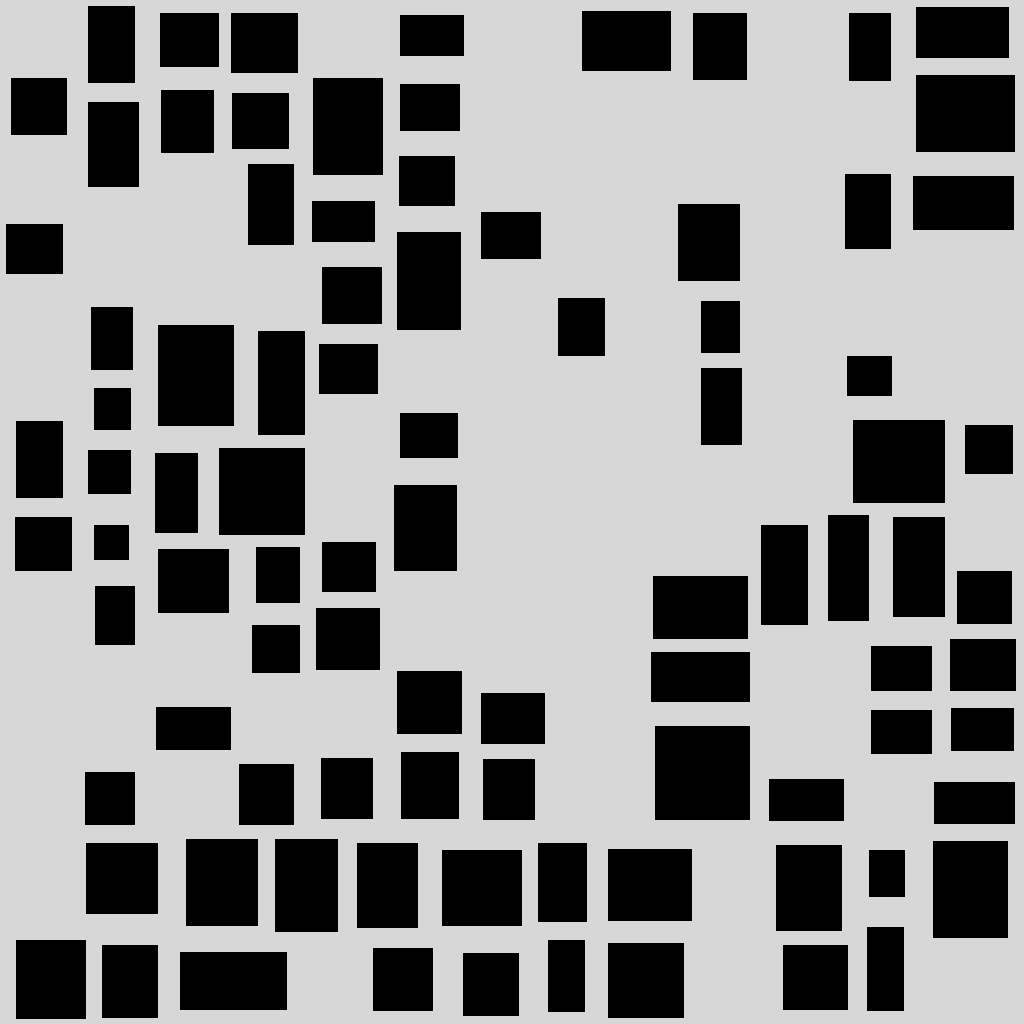
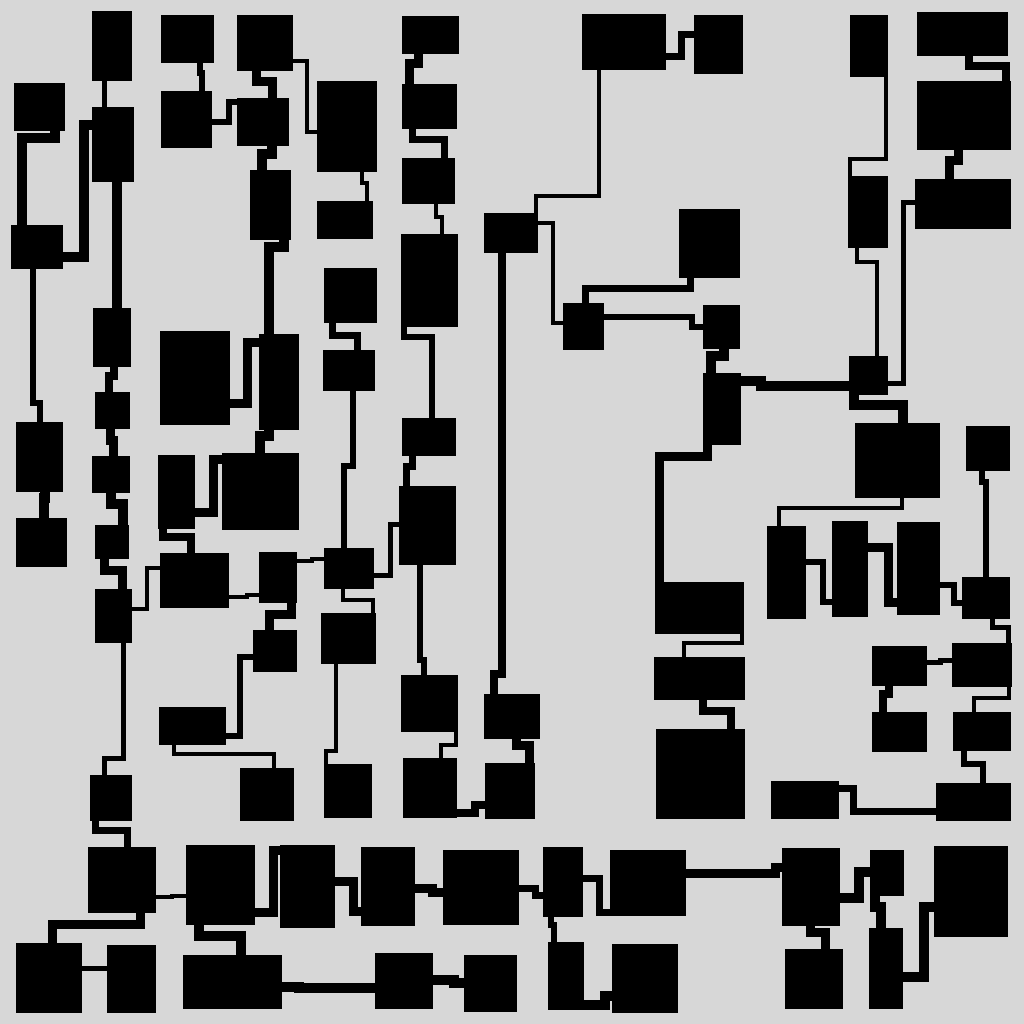
add corridors to array

diff --git a/Packages/com.pg649.worldgeneration/Runtime/Space Partitioning/Scripts/Dungeon.cs b/Packages/com.pg649.worldgeneration/Runtime/Space Partitioning/Scripts/Dungeon.cs
@@ -6,7 +6,7 @@ using UnityEngine;
 public class DungeonTreeMeta : MonoBehaviour{
     public int[] partitionSize;
     public int[] point;
-    public Vector3 roomPoint;
+    public Vector3Int roomPoint;
     public int northRooms,eastRooms,southRooms,westRooms;
     public DungeonTreeMeta(){
 
@@ -24,7 +24,7 @@ public class DungeonTreeMeta : MonoBehaviour{
         this.partitionSize = size;
         this.point = point;
     }
-    public Vector3 RoomPoint{
+    public Vector3Int RoomPoint{
         get{return roomPoint;}
         set{roomPoint = value;}
     }
@@ -135,7 +135,7 @@ public class DungeonRoom : IGameObjectable{
         }
     }
 
-    public Vector3 RoomPoint{
+    public Vector3Int RoomPoint{
         get{return roomPoint;}
     }
     public Vector3 UpperLeftPoint{
@@ -180,22 +180,25 @@ public class DungeonRoomMeta : MonoBehaviour{
 
 
 public class DungeonCorridor : IGameObjectable {
-    private List<Vector3> path;
+    private List<Vector3Int> path;
     private int width;
     private float height;
     public DungeonRoom startRoom, endRoom;
     public DungeonRoom.Face startFace, endFace;
     private int startIndex, endIndex;
+    public Vector3Int partitionPoint;
 
     public DungeonCorridor(){
-        path = new List<Vector3>();
+        path = new List<Vector3Int>();
     }
 
     public GameObject ToGameObject(){
         GameObject go = new GameObject("DungeonCorridor");
         DungeonCorridorMeta dcm = go.AddComponent<DungeonCorridorMeta>();
         dcm.SetValues(this);
-        MeshGeneration.CorridorGround(path,width).transform.parent = go.transform;
+        List<Vector3> l = new List<Vector3>();
+        foreach(Vector3Int v in path) l.Add(new Vector3(v.x,v.y,v.z));
+        MeshGeneration.CorridorGround(l,width).transform.parent = go.transform;
         return go;
     }
 
@@ -208,10 +211,32 @@ public class DungeonCorridor : IGameObjectable {
     }
 
     public void ApplyToBoolArray(bool[,] m){
-        
+        Vector3Int p = path[0];
+        int i = 0;
+        while(i != path.Count-1){
+            Vector3Int dir = (path[i+1]-path[i]);
+            if(dir.magnitude > 0) dir = dir/(int)dir.magnitude;
+            for(int j = 0; j < width; j++){
+                if(dir == Vector3.left || dir == Vector3.right){
+                    m[partitionPoint.x + p.x, partitionPoint.z +p.z + j] = true;
+                }
+                else{
+                    m[partitionPoint.x + p.x + j, partitionPoint.z +p.z] = true;
+                }
+            }
+            p += dir;
+            if(p == path[i+1]){
+                Vector3Int nextDir = i < path.Count-2 ? (path[i+2]-path[i+1]) : Vector3Int.zero;
+                if(nextDir.magnitude > 0) nextDir = nextDir/(int)nextDir.magnitude;
+                if((dir == Vector3Int.right &&  nextDir == Vector3Int.back) || (dir == Vector3Int.forward && nextDir == Vector3.left)){
+                    p += (-nextDir)*(width-1);
+                }
+                i += 1;
+            }
+        }
     }
 
-    public List<Vector3> Path{
+    public List<Vector3Int> Path{
         get{return path;}
         set{path = value;}
     }
@@ -247,13 +272,17 @@ public class DungeonCorridor : IGameObjectable {
         get{return endIndex;}
         set{endIndex = value;}
     }
+    public Vector3Int PartitionPoint{
+        get{return partitionPoint;}
+        set{partitionPoint = value;}
+    }
 }
 class DungeonCorridorMeta : MonoBehaviour{
-    public List<Vector3> path;
+    public List<Vector3Int> path;
     public float length;
     public DungeonCorridorMeta(){
     }
-    public void SetValues(List<Vector3> path){
+    public void SetValues(List<Vector3Int> path){
         this.path = path;
     }
     public void SetValues(DungeonCorridor c){
@@ -307,8 +336,8 @@ public class DungeonTreeNode : SPTreeNode{
         return x => MathF.Min(MathF.Max(min, x.Size[0]+x.Size[1]*scale), max);
     }   
 
-    public Vector3 PointV{
-        get{return point.Length == 2 ? new Vector3(point[0], 0 , point[1]) : new Vector3(point[0], point[2], point[1]);}
+    public Vector3Int PointV{
+        get{return point.Length == 2 ? new Vector3Int(point[0], 0 , point[1]) : new Vector3Int(point[0], point[2], point[1]);}
     }
     public Tuple<int,int>[] MinMaxMargin{
     get{ return minMaxMargin;}
@@ -490,7 +519,7 @@ public class DungeonTreeT : Tree<DungeonTreeNode> {
         int width = node.Rand.Next(minWidth, maxWidth+1);
         float height = (float)node.Rand.NextDouble()*(maxHeight-minHeight)+minHeight;
         if((node.Size[0] == children[0].Node.Size[0] && children[0].Node.RoomsNorth.Count > 0 && children[1].Node.RoomsSouth.Count > 0) || node.Size[1] == children[0].Node.Size[1] && children[0].Node.RoomsEast.Count > 0 && children[1].Node.RoomsWest.Count > 0){
-            Vector3 start,mid,mid2,end;
+            Vector3Int start,mid,mid2,end;
             DungeonRoom startRoom, endRoom;
             DungeonRoom.Face startFace, endFace;
             DungeonCorridor corridor = new DungeonCorridor();
@@ -500,20 +529,18 @@ public class DungeonTreeT : Tree<DungeonTreeNode> {
                 int cri2 = FindConnectingRoom(startRoom.UpperLeftPoint, children[1].Node.RoomsSouth, DungeonRoom.Face.Front, maxDistance);
                 endRoom = children[1].Node.RoomsSouth[cri2];
                 int startPointIndex = node.Rand.Next(0,startRoom.Width - width+1);
-                float startPoint = startPointIndex + ((float)width/2);
                 int endPointIndex = node.Rand.Next(0,endRoom.Width - width+1);
-                float endPoint = endPointIndex + ((float)width/2);
                 corridor.StartIndex = startPointIndex;
                 corridor.EndIndex = endPointIndex;
-                start = startRoom.RoomPoint - node.PointV + new Vector3(startPoint,0,startRoom.Depth);
-                mid = new Vector3(start.x,start.y, children[0].Node.Size[1]);
-                end = endRoom.RoomPoint - node.PointV + new Vector3(endPoint,0,0);
-                mid2 = new Vector3(end.x,end.y, children[0].Node.Size[1]);
+                start = startRoom.RoomPoint - node.PointV + new Vector3Int(startPointIndex,0,startRoom.Depth);
+                mid = new Vector3Int(start.x,start.y, children[0].Node.Size[1]);
+                end = endRoom.RoomPoint - node.PointV + new Vector3Int(endPointIndex,0,0);
+                mid2 = new Vector3Int(end.x,end.y, children[0].Node.Size[1]);
                 startFace = DungeonRoom.Face.Back;
                 endFace = DungeonRoom.Face.Front;
                 startRoom.AddCorridorPoint(new Tuple<DungeonRoom.Face, int, int>(startFace, startPointIndex, width));
                 endRoom.AddCorridorPoint(new Tuple<DungeonRoom.Face, int, int>(endFace, endPointIndex,width));
-            }   
+            }
             else{
                 int cri1 = node.Rand.Next(0,children[0].Node.RoomsEast.Count);
                 startRoom = children[0].Node.RoomsEast[cri1];
@@ -521,29 +548,30 @@ public class DungeonTreeT : Tree<DungeonTreeNode> {
                 int cri2 = FindConnectingRoom(startRoom.LowerRightPoint, children[1].Node.RoomsWest, DungeonRoom.Face.Left, maxDistance);
                 endRoom = children[1].Node.RoomsWest[cri2];
                 int startPointIndex = node.Rand.Next(0,startRoom.Depth - width+1);
-                float startPoint = startPointIndex + ((float)width/2);
+                float startPoint = startPointIndex;// + ((float)width/2);
                 //float startPoint = (float)node.Rand.NextDouble() * ((startRoom.Depth - width) - width) + width;
                 //float endPoint = (float)node.Rand.NextDouble() * ((endRoom.Depth - width) - width) + width; 
                 int endPointIndex = node.Rand.Next(0,endRoom.Depth - width+1);
-                float endPoint = endPointIndex + ((float)width/2);
+                float endPoint = endPointIndex;// + ((float)width/2);
                 corridor.StartIndex = startPointIndex;
                 corridor.EndIndex = endPointIndex;
-                start = startRoom.RoomPoint - node.PointV + new Vector3(startRoom.Width,0,startPoint);
-                mid = new Vector3(children[0].Node.Size[0],start.y, start.z);
-                end = endRoom.RoomPoint - node.PointV + new Vector3(0,0,endPoint);
-                mid2 = new Vector3(children[0].Node.Size[0],end.y, end.z);
+                start = startRoom.RoomPoint - node.PointV + new Vector3Int(startRoom.Width,0,startPointIndex);
+                mid = new Vector3Int(children[0].Node.Size[0],start.y, start.z);
+                end = endRoom.RoomPoint - node.PointV + new Vector3Int(0,0,endPointIndex);
+                mid2 = new Vector3Int(children[0].Node.Size[0],end.y, end.z);
                 startFace = DungeonRoom.Face.Right;
                 endFace = DungeonRoom.Face.Left;
                 startRoom.AddCorridorPoint(new Tuple<DungeonRoom.Face, int, int>(startFace, startPointIndex,width));
                 endRoom.AddCorridorPoint(new Tuple<DungeonRoom.Face, int, int>(endFace, endPointIndex,width));
             }
+            corridor.PartitionPoint = node.PointV;
             corridor.StartRoom = startRoom;
             corridor.StartRoom = endRoom;
             corridor.StartFace = startFace;
             corridor.EndFace = endFace;
             corridor.Width = width;
             corridor.Height = height;
-            corridor.Path = new List<Vector3>(){start,mid,mid2,end};
+            corridor.Path = new List<Vector3Int>(){start,mid,mid2,end};
             node.Corridors.Add(corridor);
         }
     }
@@ -557,12 +585,12 @@ public class DungeonTreeT : Tree<DungeonTreeNode> {
             corridor.EndRoom = children[1].Node.RoomsWest[node.Rand.Next(0,children[1].Node.RoomsWest.Count)];
             corridor.StartIndex = node.Rand.Next(0,corridor.StartRoom.Depth-width+1);
             corridor.EndIndex = node.Rand.Next(0,corridor.EndRoom.Depth-width+1);
-            Vector3 start = corridor.StartRoom.RoomPoint - node.PointV + new Vector3(corridor.StartRoom.Width,0,corridor.StartIndex+((float)width/2));
+            Vector3Int start = corridor.StartRoom.RoomPoint - node.PointV + new Vector3Int(corridor.StartRoom.Width,0,corridor.StartIndex);
             corridor.Path.Add(start);
-            Vector3 end = corridor.EndRoom.RoomPoint - node.PointV + new Vector3(0,0,corridor.EndIndex+((float)width/2));
+            Vector3Int end = corridor.EndRoom.RoomPoint - node.PointV + new Vector3Int(0,0,corridor.EndIndex);
             if(start.z != end.z){
-                Vector3 mid = new Vector3(children[0].Node.Size[0],start.y, start.z);
-                Vector3 mid2 = new Vector3(children[0].Node.Size[0], end.y, end.z);
+                Vector3Int mid = new Vector3Int(children[0].Node.Size[0],start.y, start.z);
+                Vector3Int mid2 = new Vector3Int(children[0].Node.Size[0], end.y, end.z);
                 corridor.Path.Add(mid);
                 corridor.Path.Add(mid2);
             }
@@ -571,6 +599,7 @@ public class DungeonTreeT : Tree<DungeonTreeNode> {
             corridor.Height = height;
             corridor.StartFace = DungeonRoom.Face.Right;
             corridor.EndFace = DungeonRoom.Face.Left;
+            corridor.PartitionPoint = node.PointV;
             node.Corridors.Add(corridor);
         }
         if(children[1].Node.RoomsNorth.Count > 0 && children[3].Node.RoomsSouth.Count > 0){
@@ -581,12 +610,12 @@ public class DungeonTreeT : Tree<DungeonTreeNode> {
             corridor.EndRoom = children[3].Node.RoomsSouth[node.Rand.Next(0,children[3].Node.RoomsSouth.Count)];
             corridor.StartIndex = node.Rand.Next(0,corridor.StartRoom.Width-width+1);
             corridor.EndIndex = node.Rand.Next(0,corridor.EndRoom.Width-width+1);
-            Vector3 start = corridor.StartRoom.RoomPoint - node.PointV + new Vector3(corridor.StartIndex+((float)width/2),0,corridor.StartRoom.Depth);
+            Vector3Int start = corridor.StartRoom.RoomPoint - node.PointV + new Vector3Int(corridor.StartIndex,0,corridor.StartRoom.Depth);
             corridor.Path.Add(start);
-            Vector3 end = corridor.EndRoom.RoomPoint - node.PointV + new Vector3(corridor.EndIndex+((float)width/2),0,0);
+            Vector3Int end = corridor.EndRoom.RoomPoint - node.PointV + new Vector3Int(corridor.EndIndex,0,0);
             if(start.z != end.z){
-                Vector3 mid = new Vector3(start.x,start.y, children[1].Node.Size[1]);
-                Vector3 mid2 = new Vector3(end.x, end.y, children[1].Node.Size[1]);
+                Vector3Int mid = new Vector3Int(start.x,start.y, children[1].Node.Size[1]);
+                Vector3Int mid2 = new Vector3Int(end.x, end.y, children[1].Node.Size[1]);
                 corridor.Path.Add(mid);
                 corridor.Path.Add(mid2);
             }
@@ -595,6 +624,7 @@ public class DungeonTreeT : Tree<DungeonTreeNode> {
             corridor.Height = height;
             corridor.StartFace = DungeonRoom.Face.Top;
             corridor.EndFace = DungeonRoom.Face.Bottom;
+            corridor.PartitionPoint = node.PointV;
             node.Corridors.Add(corridor);
         }
         if(children[2].Node.RoomsEast.Count > 0 && children[3].Node.RoomsWest.Count > 0){
@@ -605,12 +635,12 @@ public class DungeonTreeT : Tree<DungeonTreeNode> {
             corridor.EndRoom = children[3].Node.RoomsWest[node.Rand.Next(0,children[3].Node.RoomsWest.Count)];
             corridor.StartIndex = node.Rand.Next(0,corridor.StartRoom.Depth-width+1);
             corridor.EndIndex = node.Rand.Next(0,corridor.EndRoom.Depth-width+1);
-            Vector3 start = corridor.StartRoom.RoomPoint - node.PointV + new Vector3(corridor.StartRoom.Width,0,corridor.StartIndex+((float)width/2));
+            Vector3Int start = corridor.StartRoom.RoomPoint - node.PointV + new Vector3Int(corridor.StartRoom.Width,0,corridor.StartIndex);
             corridor.Path.Add(start);
-            Vector3 end = corridor.EndRoom.RoomPoint - node.PointV + new Vector3(0,0,corridor.EndIndex+((float)width/2));
+            Vector3Int end = corridor.EndRoom.RoomPoint - node.PointV + new Vector3Int(0,0,corridor.EndIndex);
             if(start.z != end.z){
-                Vector3 mid = new Vector3(children[0].Node.Size[0],start.y, start.z);
-                Vector3 mid2 = new Vector3(children[0].Node.Size[0], end.y, end.z);
+                Vector3Int mid = new Vector3Int(children[0].Node.Size[0],start.y, start.z);
+                Vector3Int mid2 = new Vector3Int(children[0].Node.Size[0], end.y, end.z);
                 corridor.Path.Add(mid);
                 corridor.Path.Add(mid2);
             }
@@ -619,6 +649,7 @@ public class DungeonTreeT : Tree<DungeonTreeNode> {
             corridor.Height = height;
             corridor.StartFace = DungeonRoom.Face.Right;
             corridor.EndFace = DungeonRoom.Face.Left;
+            corridor.PartitionPoint = node.PointV;
             node.Corridors.Add(corridor);
         }
         if(children[0].Node.RoomsNorth.Count > 0 && children[2].Node.RoomsSouth.Count > 0){
@@ -629,12 +660,12 @@ public class DungeonTreeT : Tree<DungeonTreeNode> {
             corridor.EndRoom = children[2].Node.RoomsSouth[node.Rand.Next(0,children[2].Node.RoomsSouth.Count)];
             corridor.StartIndex = node.Rand.Next(0,corridor.StartRoom.Width-width+1);
             corridor.EndIndex = node.Rand.Next(0,corridor.EndRoom.Width-width+1);
-            Vector3 start = corridor.StartRoom.RoomPoint - node.PointV + new Vector3(corridor.StartIndex+((float)width/2),0,corridor.StartRoom.Depth);
+            Vector3Int start = corridor.StartRoom.RoomPoint - node.PointV + new Vector3Int(corridor.StartIndex,0,corridor.StartRoom.Depth);
             corridor.Path.Add(start);
-            Vector3 end = corridor.EndRoom.RoomPoint - node.PointV + new Vector3(corridor.EndIndex+((float)width/2),0,0);
+            Vector3Int end = corridor.EndRoom.RoomPoint - node.PointV + new Vector3Int(corridor.EndIndex,0,0);
             if(start.z != end.z){
-                Vector3 mid = new Vector3(start.x,start.y, children[1].Node.Size[1]);
-                Vector3 mid2 = new Vector3(end.x, end.y, children[1].Node.Size[1]);
+                Vector3Int mid = new Vector3Int(start.x,start.y, children[1].Node.Size[1]);
+                Vector3Int mid2 = new Vector3Int(end.x, end.y, children[1].Node.Size[1]);
                 corridor.Path.Add(mid);
                 corridor.Path.Add(mid2);
             }
@@ -643,6 +674,7 @@ public class DungeonTreeT : Tree<DungeonTreeNode> {
             corridor.Height = height;
             corridor.StartFace = DungeonRoom.Face.Top;
             corridor.EndFace = DungeonRoom.Face.Bottom;
+            corridor.PartitionPoint = node.PointV;
             node.Corridors.Add(corridor);
         }
     }

diff --git a/Packages/com.pg649.worldgeneration/Runtime/Space Partitioning/Scripts/SPTest.cs b/Packages/com.pg649.worldgeneration/Runtime/Space Partitioning/Scripts/SPTest.cs
@@ -19,11 +19,11 @@ public class Generate2DDungeon : MonoBehaviour
     public int frontBackMinMargin = 1;
     public int frontBackMaxMargin = 5;
     public int roomPlacementProbability = 100;
-    public bool useTerrains = false;
-    [Header("QuadTree quadratic terrain options")]
-    public bool quadraticTerrain = false;
-    public int divideMin = 1;
-    public int divideMax = 2;
+    // public bool useTerrains = false;
+    // [Header("QuadTree quadratic terrain options")]
+    // public bool quadraticTerrain = false;
+    // public int divideMin = 1;
+    // public int divideMax = 2;
     [Header("Corridors")]
     public int minCorridorWidth = 1;
     public int maxCorridorWidth = 1;
@@ -54,14 +54,13 @@ public class Generate2DDungeon : MonoBehaviour
         DungeonTreeT dTree = new DungeonTreeT(spTree);
         dTree.Root.Node.FHeight = DungeonTreeNode.fHeight2DMinMax(3,4);
         dTree.Root.Node.MinMaxMargin = minMaxMargin;
-        dTree.PlaceRooms(roomPlacementProbability, quadraticTerrain : quadraticTerrain, quadraticTerrainMin : divideMin, quadraticTerrainMax : divideMax);
+        dTree.PlaceRooms(roomPlacementProbability);//, quadraticTerrain : quadraticTerrain, quadraticTerrainMin : divideMin, quadraticTerrainMax : divideMax);
         dTree.PlaceCorridors(minCorridorWidth, maxCorridorWidth, minCorridorHeight, maxCorridorHeight, maxDistance : maxDistance);
-        //dTree.ToGameObject(terrain : useTerrains);
-        var a = dTree.ToBoolArray();
+        //dTree.ToGameObject();
+        bool[,] a = dTree.ToBoolArray();
 
         EnvironmentGeneratorBitmap generator = new EnvironmentGeneratorBitmap(a, environmentGeneratorSettings);
         generator.Build();
-
         if(createTexture){
             Texture2D t = dTree.ToTexture();
             byte[] bytes = ImageConversion.EncodeArrayToPNG(t.GetRawTextureData(), t.graphicsFormat, (uint)t.width, (uint)t.height);
